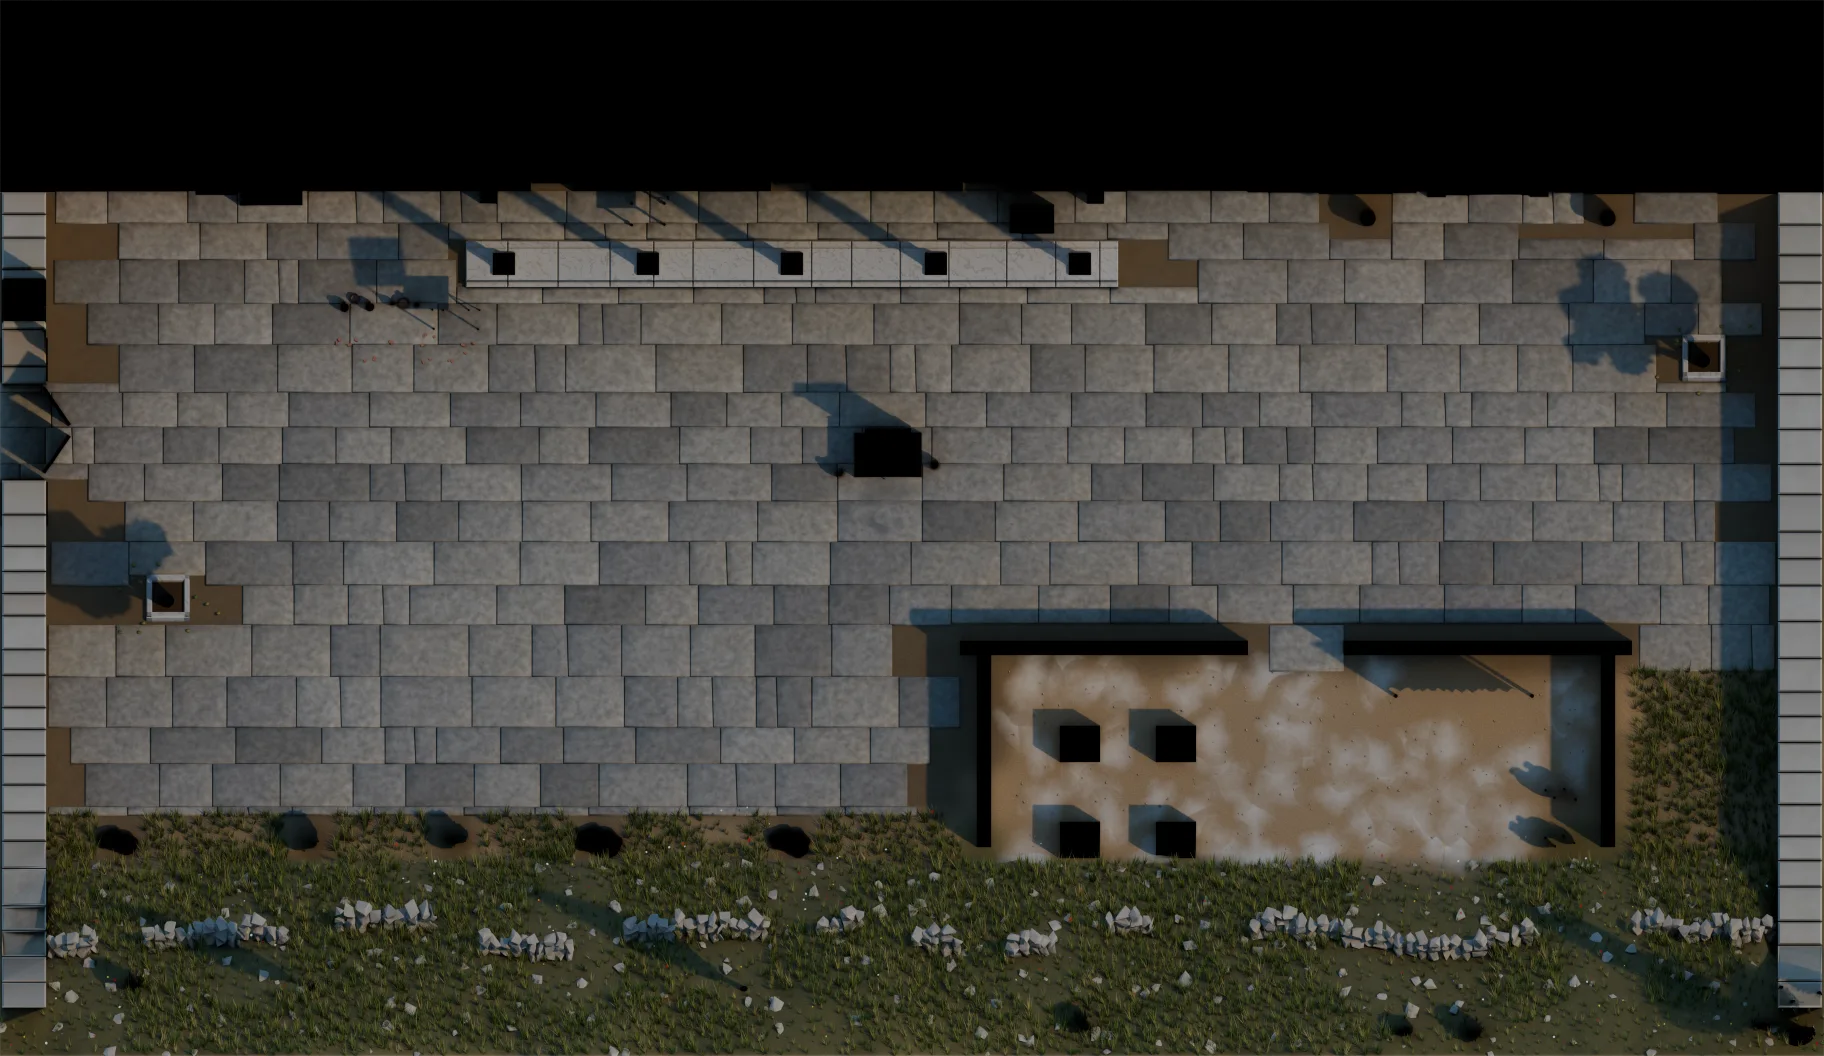
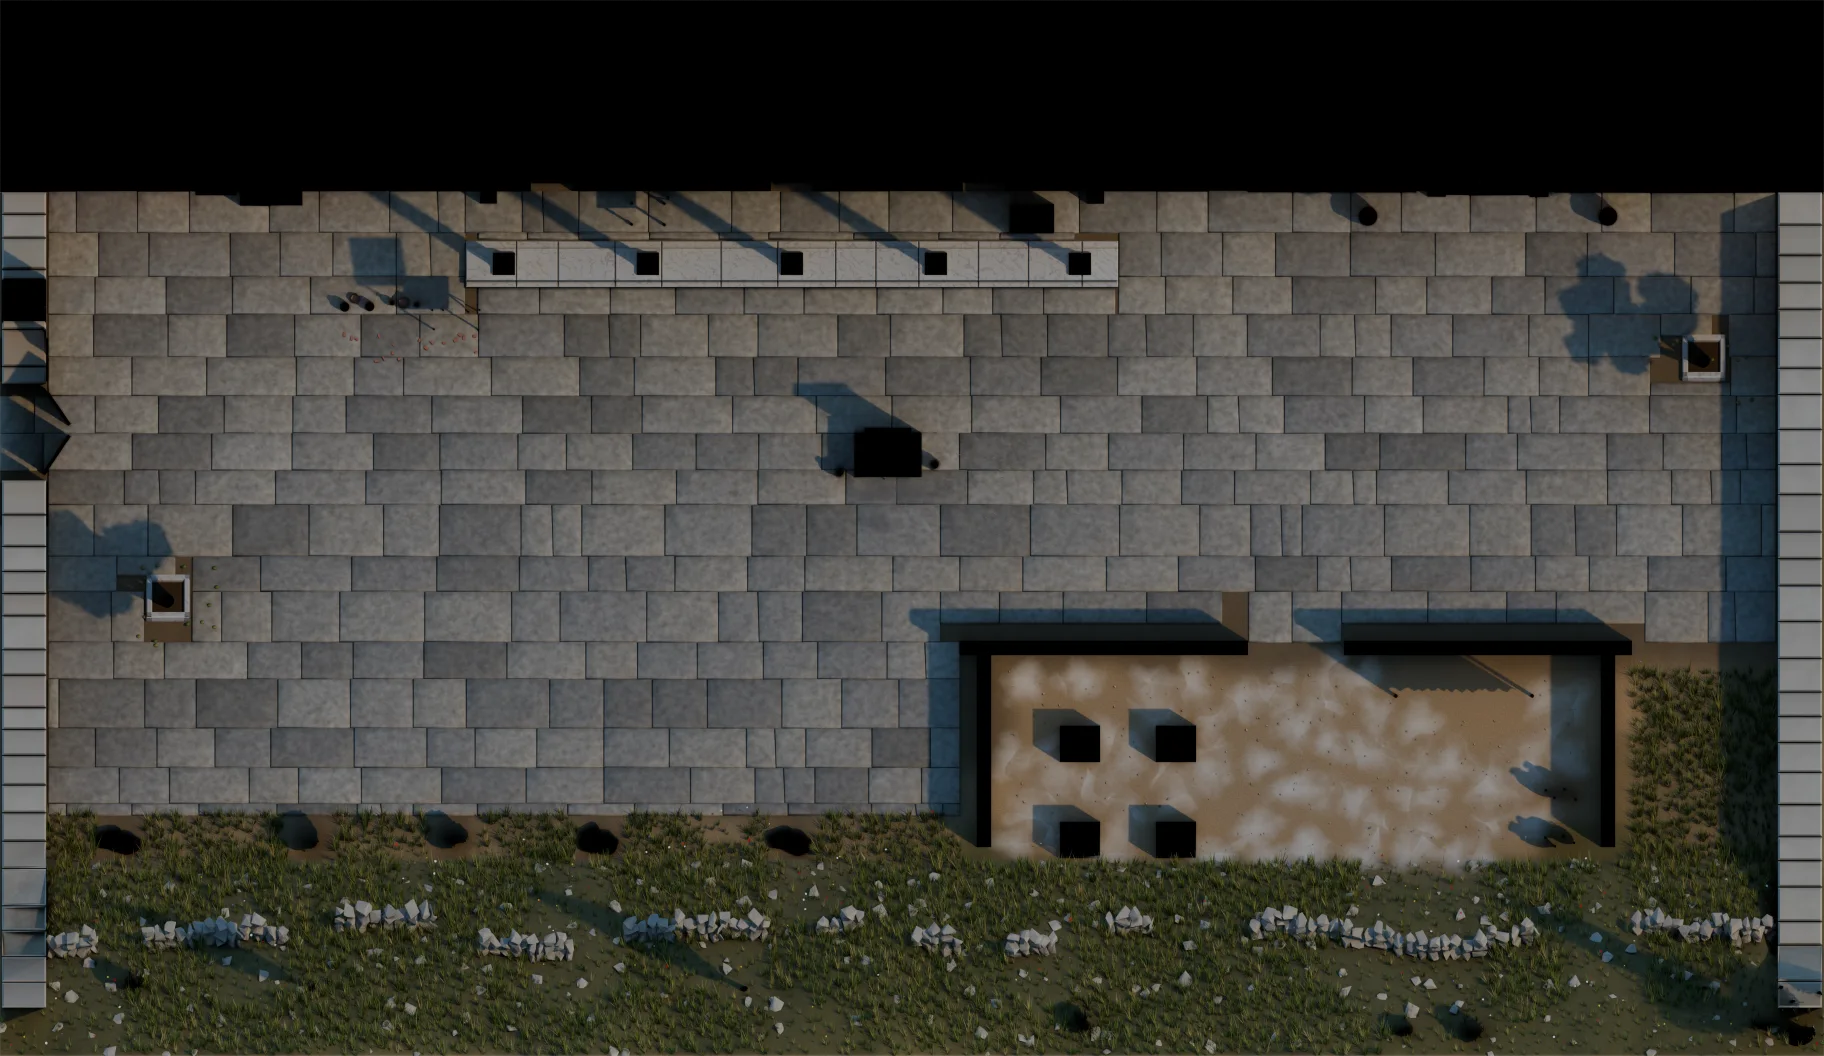
fix(art): the street paved right up to its walls, stoa and pots
The street's paving left strips of bare earth along the house fronts, at
the west wall, at both ends of the stoa's stylobate and under the potted
bays. A slab reaching into a wall was dropped whole (its top and bottom
edges were tested first), and a course starting in the gate's row left a
strip under the frontage. Courses now start and end at the paving's edge
in their own rows, the gate gets a course of its own, a slab is trimmed
both ways and the bigger result kept, and a side edge moves in only as far
as it must (the stylobate's ends are not on a tile boundary). Potted bays
stand on the paving; a fig still grows from a pit of earth. The street's
ground re-rendered in both lights.

diff --git a/tools/art/lib/roman_town.py b/tools/art/lib/roman_town.py
@@ -302,45 +302,96 @@ class RomanTown:
         rng = self.rng
         bm, layer = self._rbm()
         stylobate = self._stylobate_rows()
-        # Stalls, jars, tables and the fountain stand on the paving.
+        # Stalls, jars, tables, the fountain and the potted bays (bushes in
+        # the paved street, as tile_bush decides) stand on the paving; a fig
+        # grows from a pit of bare earth.
         under = ("stall", "jars", "table", "fountain")
+
+        def potted(tx, ty):
+            return sum(m.kind(tx + dx, ty + dy) == "paving" for dx in (-1, 0, 1) for dy in (-1, 0, 1)) >= 4
 
         def paved(px, py):
             if any(a <= px <= b and s0 <= py <= s1 for a, b, s0, s1 in stylobate):
                 return False
-            k = m.kind(int(math.floor(px)), int(math.floor(py)))
-            return k in kinds or k in under
+            tx, ty = int(math.floor(px)), int(math.floor(py))
+            k = m.kind(tx, ty)
+            return k in kinds or k in under or (k == "bush" and potted(tx, ty))
 
         cells = [c for k in kinds for c in m.tiles(k)]
         first_x = min(c[0] for c in cells) if cells else 0
         first_y = min(c[1] for c in cells) if cells else 0
 
-        def fit(a, b, c, d):
-            """Shrink a slab to paved tiles: an edge that runs into anything
-            else moves in to the tile boundary."""
-            for _ in range(4):
-                n = 6
-                if not all(paved(a + (b - a) * (k + 0.5) / n, c + 0.01) for k in range(n)):
+        n = 6
+
+        def row_ok(y, a, b):
+            return all(paved(a + (b - a) * (k + 0.5) / n, y) for k in range(n))
+
+        def col_ok(x, c, d):
+            return all(paved(x, c + (d - c) * (k + 0.5) / n) for k in range(n))
+
+        def trim(a, b, c, d, across_first):
+            """Shrink a slab to the paving: a top or bottom edge that runs
+            into anything else moves in to the tile boundary (walls and
+            frontages lie on them); a side edge moves in until it clears
+            whatever it ran into (the stylobate's ends are not on a tile
+            boundary)."""
+
+            def rows(a, b, c, d):
+                if not row_ok(c + 0.01, a, b):
                     c = math.floor(c) + 1.0
-                if not all(paved(a + (b - a) * (k + 0.5) / n, d - 0.01) for k in range(n)):
+                if not row_ok(d - 0.01, a, b):
                     d = math.ceil(d) - 1.0
-                if not all(paved(a + 0.01, c + (d - c) * (k + 0.5) / n) for k in range(n)):
-                    a = math.floor(a) + 1.0
-                if not all(paved(b - 0.01, c + (d - c) * (k + 0.5) / n) for k in range(n)):
-                    b = math.ceil(b) - 1.0
+                return a, b, c, d
+
+            def sides(a, b, c, d):
+                while a < b and not col_ok(a + 0.01, c, d):
+                    a += 0.02
+                while b > a and not col_ok(b - 0.01, c, d):
+                    b -= 0.02
+                return a, b, c, d
+
+            for _ in range(4):
+                for step in (sides, rows) if across_first else (rows, sides):
+                    a, b, c, d = step(a, b, c, d)
                 if b - a < 0.1 or d - c < 0.1:
                     return None
             return a, b, c, d
 
+        def fit(a, b, c, d):
+            """The biggest slab left after trimming its top and bottom first
+            (a slab reaching into a wall row) or its sides first (one reaching
+            into a wall's column or the stylobate)."""
+            boxes = [box for box in (trim(a, b, c, d, False), trim(a, b, c, d, True)) if box]
+            return max(boxes, key=lambda q: (q[1] - q[0]) * (q[3] - q[2])) if boxes else None
+
+        def ends(y0, y1):
+            """Where a course's paving begins and ends: a slab reaching into
+            the wall at either end would be dropped whole (its top and bottom
+            edges fail first), leaving bare earth, so the end slabs are cut
+            to the paving instead."""
+            starts, stops = [], []
+            for yy in (y0 + 0.05, (y0 + y1) / 2, y1 - 0.05):
+                xs = [tx for tx in range(m.w) if paved(tx + 0.5, yy)]
+                if xs:
+                    starts.append(xs[0])
+                    stops.append(xs[-1] + 1)
+            return (max(starts), min(stops)) if starts else (first_x, m.w)
+
+        # The courses are laid from the street's first row of paving; a gate
+        # set in the wall above it gets a course of its own, one tile deep
+        # (a course starting in the wall row would leave a strip of bare
+        # earth under the house fronts).
+        top = min((c[1] for c in m.tiles(kinds[0])), default=first_y)
         y = float(first_y)
         while y < m.h:
-            row_h = 0.7 + rng.random() * 0.4
+            row_h = top - y if y < top else 0.7 + rng.random() * 0.4
+            start, stop = ends(y, y + row_h)
             # Courses start at the paving's edge, staggered by their first slab.
-            x = float(first_x) - rng.random() * 0.9
+            x = float(start) - rng.random() * 0.9
             while x < m.w:
                 ln = 1.0 + rng.random() * 0.9
                 cx, cy = x + ln / 2, y + row_h / 2
-                box = fit(max(x, first_x), x + ln, y, y + row_h)
+                box = fit(max(x, start), min(x + ln, stop), y, y + row_h) if min(x + ln, stop) - max(x, start) > 0.1 else None
                 if box and not paved((box[0] + box[1]) / 2, (box[2] + box[3]) / 2):
                     box = None
                 if box:
